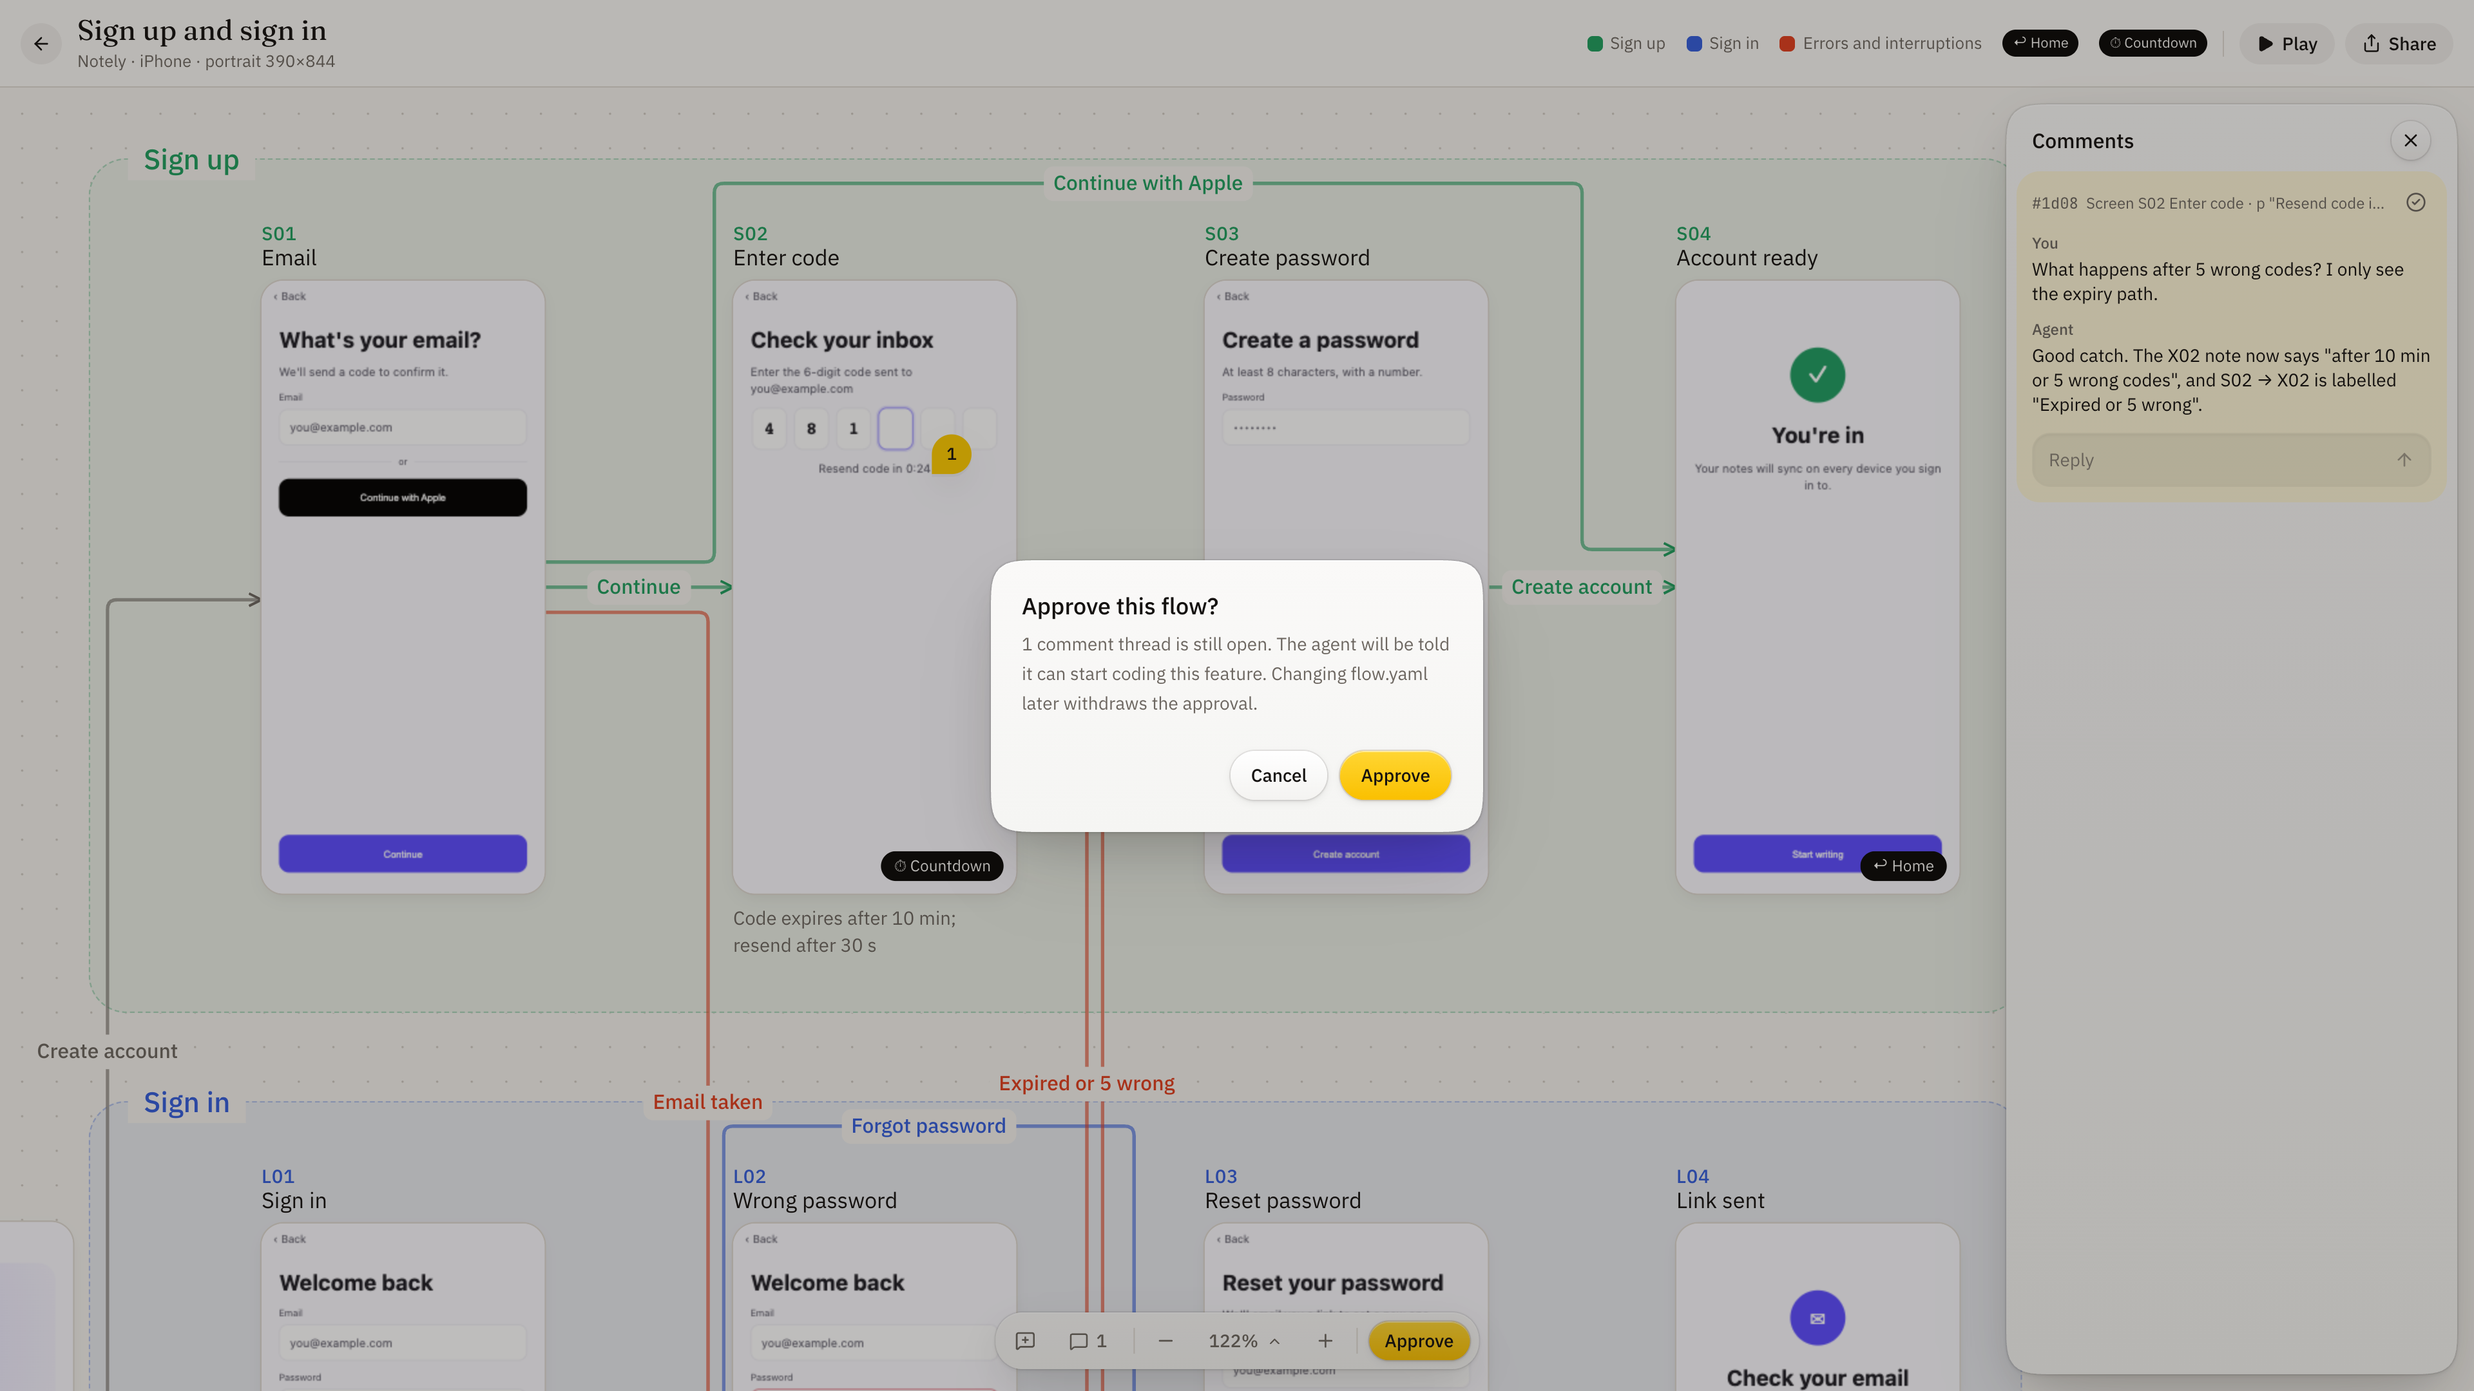
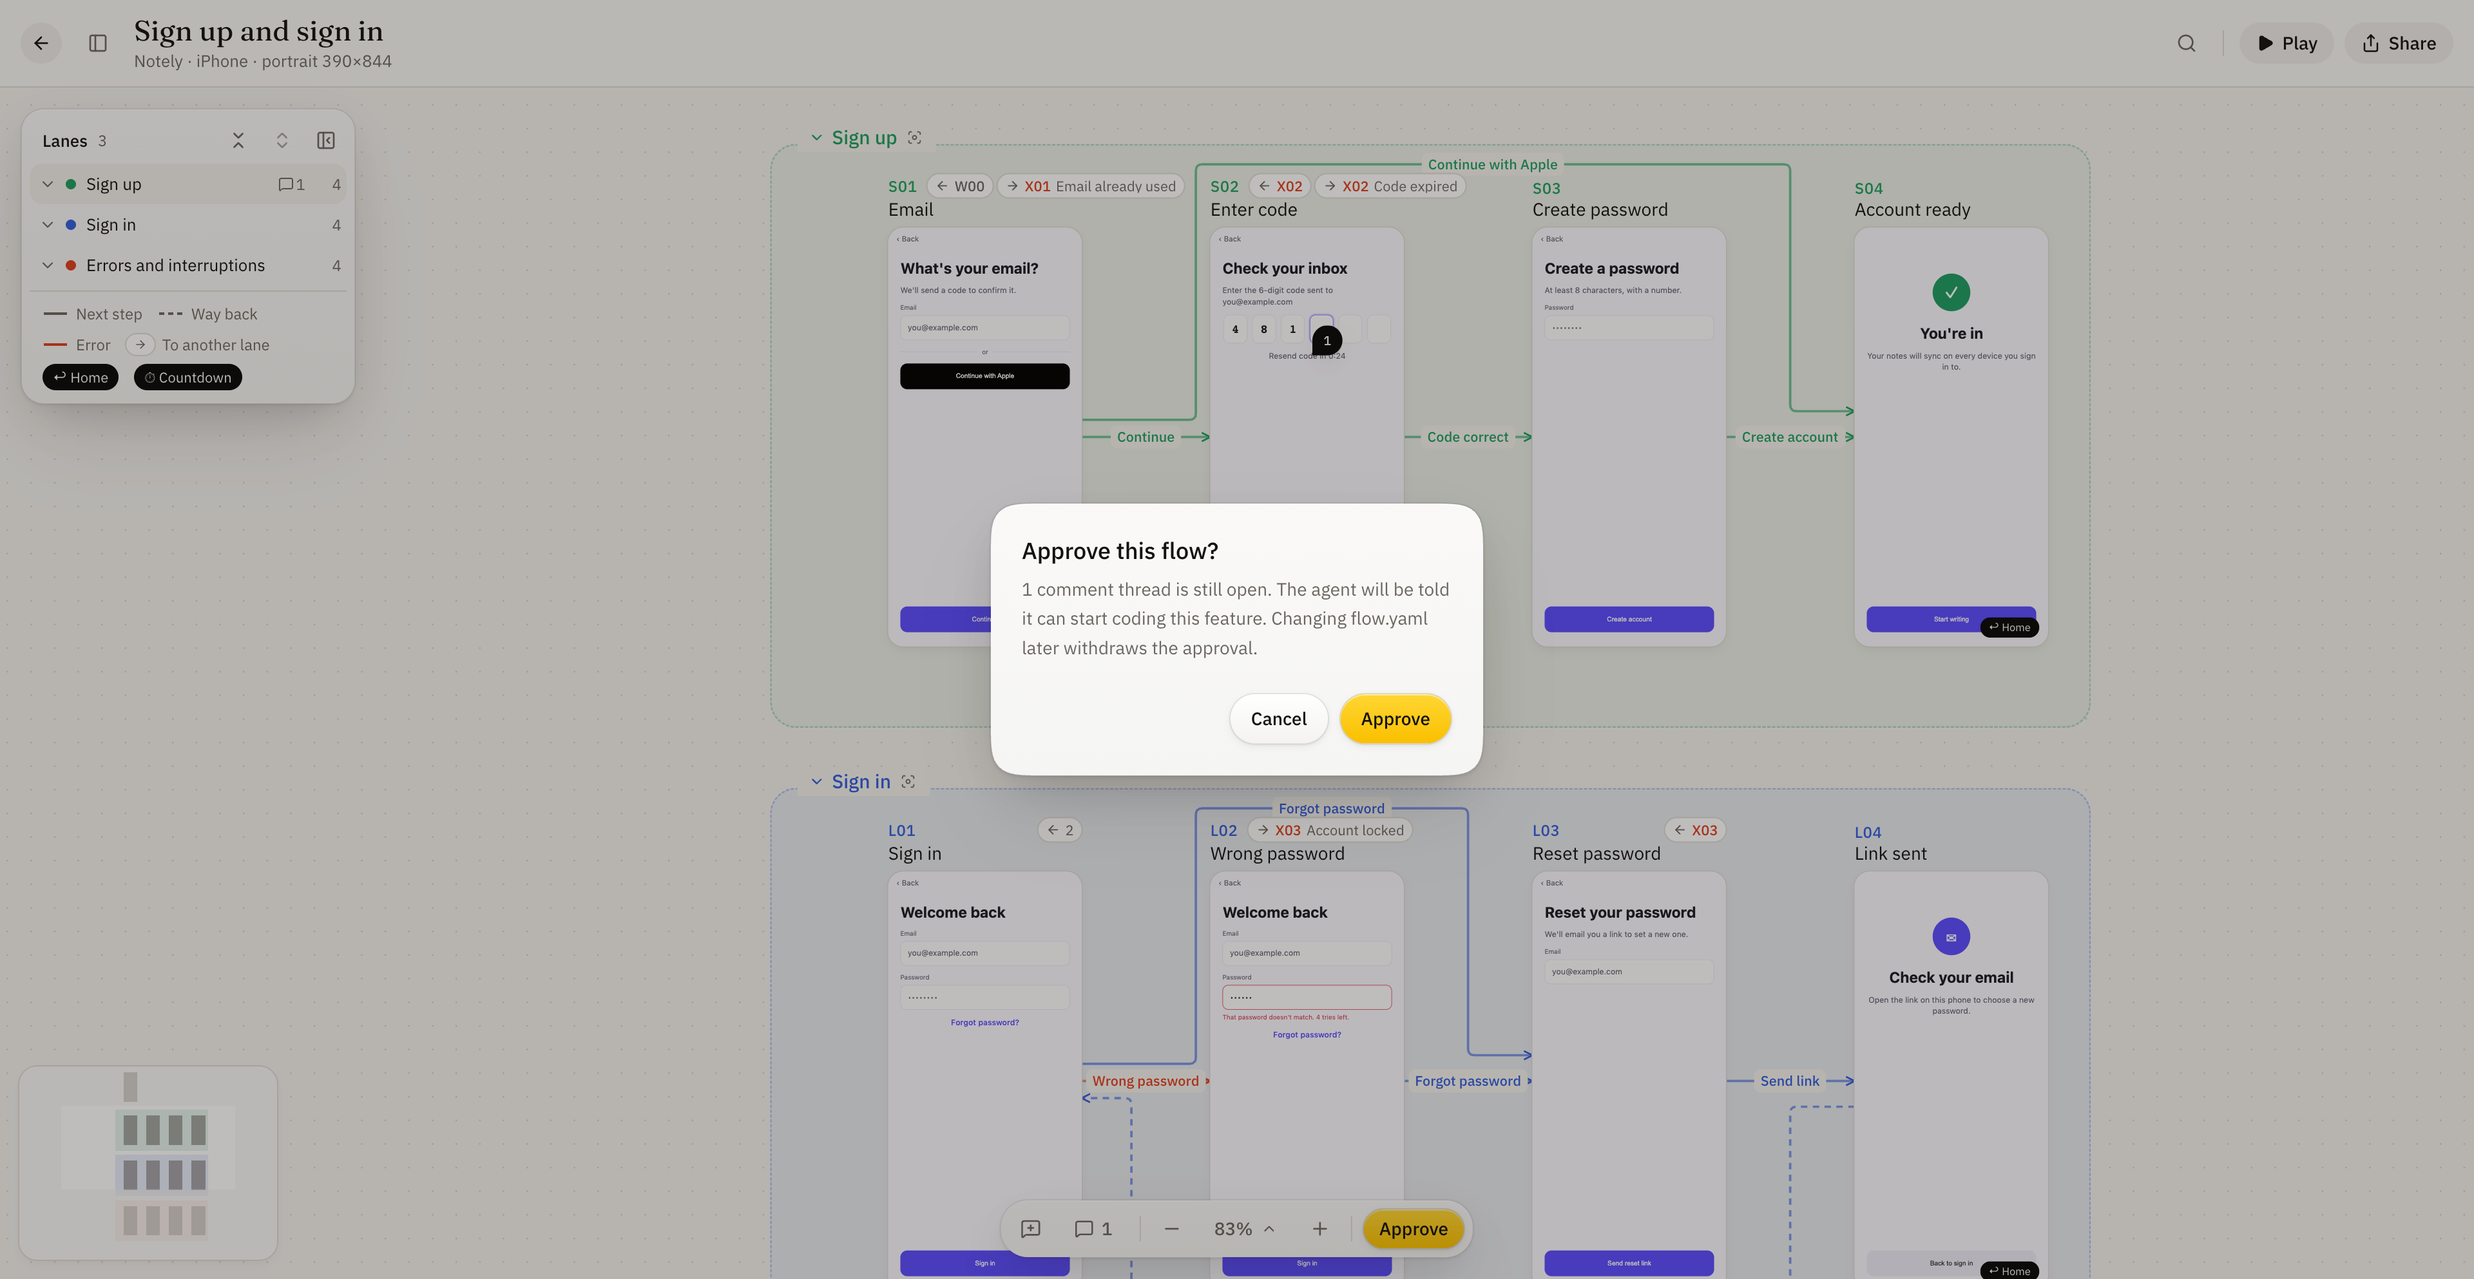
Present Design Flow as OneKey's fork of stvlynn/design-flow
- README: maintained by OneKey, a fork of stvlynn/design-flow by Steven Lynn, with an About this fork section listing what changed; install commands point at labrinyang/design-flow and say how to remove the original first
- Retake the screenshots for the current canvas (lanes panel, link chips, options in a reply, ink pins), and add one of a screen in focus
- Name Export PNG as the menu does, and quote the watch line as it prints now
- package.json and the plugin manifests name OneKey as author and this repository as home; package.json lists Steven Lynn as a contributor, and LICENSE keeps his copyright notice

diff --git a/README.md b/README.md
@@ -5,14 +5,12 @@
   Every screen, branch, error and way back, on one infinite canvas. You comment, the agent fixes it, you approve, then it codes.
 </p>
 
-<div align="center">
-<b>Join our Discord group! ⬇ 加入我们的 Discord 群组</b>
-
-[![Discord](https://spine.stv.pm/badge/discord.svg)](https://discord.gg/PwZDHH4mv3)
-</div>
+<p align="center">
+  Maintained by <a href="https://onekey.so">OneKey</a>. A fork of <a href="https://github.com/stvlynn/design-flow">stvlynn/design-flow</a> by Steven Lynn, reworked for large flows; <a href="#about-this-fork">About this fork</a> lists the changes.
+</p>
 
 <p align="center">
-  <img src="docs/images/canvas.png" alt="The Design Flow canvas for a sign-up and sign-in flow: three lanes (Sign up, Sign in, Errors and interruptions), thirteen phone-sized screens drawn in the app's own style, and labelled arrows between them" width="960" />
+  <img src="docs/images/canvas.png" alt="The Design Flow canvas for a sign-up and sign-in flow: the lanes panel on the left, and the Sign up and Sign in lanes of phone-sized screens drawn in the app's own style, with labelled arrows inside each lane and chips on the screen labels for links to other lanes" width="960" />
 </p>
 
 Ask an agent to build a sign-up flow and it starts writing components. The branches it forgot (email already taken, code expired, five wrong passwords, offline) turn up in review, after the code exists.
@@ -21,34 +19,34 @@ With Design Flow, the agent first writes the flow as `.design-flow/<feature>/flo
 
 ## Install
 
-You need Node.js 20 or newer. The skill ships with everything it runs — the CLI, the server and the canvas — so there is nothing else to install.
+You need Node.js 20 or newer. The skill ships with everything it runs (the CLI, the server and the canvas), so there is nothing else to install.
 
 Install it with the [skills CLI](https://github.com/vercel-labs/skills):
 
 ```bash
-npx skills add stvlynn/design-flow
+npx skills add labrinyang/design-flow
 ```
 
 The CLI asks which agents to install it for (Claude Code, Codex, Cursor and others) and whether to install it for this project or for your user. To skip the questions:
 
 ```bash
-npx skills add stvlynn/design-flow --skill design-flow --agent claude-code --yes
+npx skills add labrinyang/design-flow --skill design-flow --agent claude-code --yes
 ```
 
 Add `-g` to install it for every project:
 
 ```bash
-npx skills add stvlynn/design-flow --skill design-flow --agent claude-code -g --yes
+npx skills add labrinyang/design-flow --skill design-flow --agent claude-code -g --yes
 ```
 
-The skill lands in `.claude/skills/design-flow/` (or `~/.claude/skills/design-flow/` with `-g`).
+The skill lands in `.claude/skills/design-flow/` (or `~/.claude/skills/design-flow/` with `-g`). The original is named design-flow too: if you installed it from stvlynn/design-flow, remove it first with `npx skills remove design-flow`, and its plugin with `claude plugin marketplace remove design-flow`.
 
 ### Optional: the Claude Code plugin
 
 The skill works on its own: it tells the agent to run `design-flow watch` in the background, so your comments reach it while you work. If you use Claude Code and want comments attached to your next message even when no watcher is running, install the repository as a plugin as well:
 
 ```bash
-claude plugin marketplace add stvlynn/design-flow
+claude plugin marketplace add labrinyang/design-flow
 ```
 
 ```bash
@@ -80,7 +78,7 @@ The agent picks a feature name, runs `design-flow open sign-up`, and writes `.de
 ### 2. Read the canvas
 
 <p align="center">
-  <img src="docs/images/frames.png" alt="Close-up of the Sign in lane: Welcome, Sign in, Wrong password, Reset password and Link sent screens, each a real interface, connected by labelled arrows such as Forgot password and Send link" width="960" />
+  <img src="docs/images/frames.png" alt="The Sign in lane up close: Sign in, Wrong password, Reset password and Link sent, each a real interface, joined by labelled arrows, a red one for the wrong password, one that skips a screen running above and the way back running below; chips on the labels name the links to other lanes, such as X03 Account locked" width="960" />
 </p>
 
 - **Lanes** group the flow (sign up, sign in, errors). Each lane runs left to right from its own start, so no lane waits far to the right for the steps of another. An error lane marked "reachable from any step" holds interruptions that can happen anywhere. Screens in no lane sit in a row above the lanes.
@@ -89,13 +87,17 @@ The agent picks a feature name, runs `design-flow open sign-up`, and writes `.de
 - **Links** stand in for arrows between lanes: chips on a screen's label name the screens it leads to in other lanes (→ S07) and how many lead to it (← 3). Click one to go there. Hover a screen and all of its arrows show, those to other lanes too, while the rest of the flow fades; click the screen to keep them, and click the canvas or press Esc to let them go.
 - **Badges** mark screens that return home, animate or count down; **notes** sit below the flow.
 
+<p align="center">
+  <img src="docs/images/focus.png" alt="The pointer on L02 Wrong password: its arrows stay lit, with the red one down to X03 Account locked in the Errors lane labelled 5th wrong try, while the rest of the flow fades" width="960" />
+</p>
+
 Scroll to pan; ⌘-scroll, Ctrl-scroll or pinch to zoom, wherever the pointer is, from up to 800% out until the whole flow fits in the window, however big it is. ⌘+ and ⌘− zoom too (Ctrl on Windows and Linux), ⌘0 fits the whole flow in the window, and **Actual size** in the zoom menu shows screens at their real size. A flow too tall to read whole opens at the width of the window, from its top. While you comment, scrolling over a screen that is longer than its frame scrolls that screen first, then the canvas. Screens stay where the layout puts them, so scrolling and dragging anywhere moves the canvas.
 
 Far out, screens show as pictures, which the server draws in the background whenever a screen changes and keeps until it changes again. Close enough to read, at least about 160 × 100 px on screen, a screen becomes its live page, up to 16 at a time; while you comment, the screen under the pointer goes live too, so a click lands on an element in it. A flow with hundreds of screens opens in under a second and stays light however far you zoom.
 
 The lanes panel on the left lists every lane with how many screens and open comments it has, marks the lane in the middle of the window, and goes to a lane when you click its name. Below the list it says what the arrows, links and badges mean. Hide it with the button beside the flow's title. Click a lane's title, on the canvas or in the panel, to collapse it to one row that says how many screens it holds and how many open comments; the lanes below move up, and the arrows of a screen in focus that lead into the lane end on that row, with ×3 on one that stands for three. Click the row to open the lane again. **Collapse all lanes** and **Expand all lanes** are in the panel and the zoom menu, and the button after a lane's title collapses every other lane and shows that one. Your browser remembers which lanes you collapsed on each canvas, and a lane opens by itself when search, a link or a comment takes you inside it.
 
-Press ⌘K (Ctrl K) to find a screen by its id, name or lane and go straight to it. The minimap in the corner shows where you are in the flow; click or drag in it to move, or turn it off in the zoom menu. Zoomed out, screen ids and lane titles keep a readable size: lane titles until they would reach the next lane's, screen ids and titles until frames get too small to read, when they hide, as arrow labels do. The address bar follows you: it links the screen in the middle of the window (`#screen=S02`) or the comment you opened (`#thread=4a95ec3d`), so a copied link opens the canvas right there.
+Press ⌘K (Ctrl K) to find a screen by its id, name or lane and go straight to it. The minimap in the corner shows where you are in the flow; click or drag in it to move, or turn it off in the zoom menu. Zoomed out, screen ids and lane titles keep a readable size: lane titles until they would reach the next lane's, screen ids and titles until frames get too small to read, when they hide, as arrow labels do. The address bar follows you: it links the screen in the middle of the window (`#screen=S02`) or the comment you opened (`#thread=04b72f50`), so a copied link opens the canvas right there.
 
 Screens play their animations only while they are on screen and at least about 160 × 100 px there; smaller or hidden ones pause until you zoom in, so a large flow sits idle instead of keeping the CPU busy.
 
@@ -104,13 +106,13 @@ Screens play their animations only while they are on screen and at least about 1
 Press <kbd>C</kbd> and click: a button inside a screen, a screen's title, an arrow, a lane or empty canvas.
 
 <p align="center">
-  <img src="docs/images/comment.png" alt="A comment pinned to the resend line inside screen S02 Enter code. The comment panel shows the user asking what happens after five wrong codes, and the agent's reply saying the arrow to X02 now reads Expired or 5 wrong" width="960" />
+  <img src="docs/images/comment.png" alt="A comment pinned to the resend line inside screen S02 Enter code. In the comment panel the user asks what happens after five wrong codes; the agent answers that they now go to X02 Code expired, and offers that as the applied option next to locking sign-up for 15 minutes" width="960" />
 </p>
 
 The agent receives it where it is anchored:
 
 ```text
-[design-flow] sign-up · new comment #4a95ec3d on Screen S02 Enter code · p "Resend code in 0:24" ([data-id="resend"]): What happens after 5 wrong codes? I only see the expiry path.
+[design-flow] sign-up · new comment #04b72f50 on Screen S02 Enter code · p "Resend code in 0:24" ([data-id="resend"]): What happens after 5 wrong codes? I only see the expiry path. — run: design-flow comments sign-up --shots
 ```
 
 It changes `flow.yaml`, replies with `design-flow reply`, and resolves the thread when it is settled. Its reply appears under your comment; the canvas redraws as soon as the file changes. Until it answers, your last message says whether the agent has read it. A comment counts as read once a command the agent ran has shown it the text; a background watcher receiving it does not count, so a comment is never lost to a watcher nobody reads.
@@ -124,7 +126,7 @@ The agent can start a thread as well. When a screen it draws depends on somethin
 ### 4. Approve
 
 <p align="center">
-  <img src="docs/images/approve.png" alt="The Approve dialog: one comment thread is still open; the agent will be told it can start coding; changing flow.yaml later withdraws the approval" width="960" />
+  <img src="docs/images/approve.png" alt="The Approve dialog over the canvas: one comment thread is still open; the agent will be told it can start coding; changing flow.yaml later withdraws the approval" width="960" />
 </p>
 
 **Approve** records the exact version of `flow.yaml` you were looking at and tells the agent it may start coding. If the file changes afterwards, the approval is withdrawn and the canvas asks again. The agent does not code the feature until `design-flow status` says `approved`.
@@ -138,7 +140,7 @@ The agent can start a thread as well. When a screen it draws depends on somethin
 **Share** (top right) has three ways out:
 
 - **Export HTML**: one file with the clickable demo and a list of screens. It opens in any browser, offline.
-- **Export image**: the whole canvas as a PNG at 2×, with or without comment pins.
+- **Export PNG**: the whole canvas as a PNG at 2×, with or without comments, drawn as at 100% whatever the zoom on screen.
 - **Create share link**: uploads that HTML as a secret GitHub gist with your own `gh` login and copies a link that opens the demo (served by [githack](https://raw.githack.com), which shows a one-click "Open the page" notice first). Anyone with the link can see it. Needs the [GitHub CLI](https://cli.github.com) and `gh auth login`.
 
 <p align="center">
@@ -232,6 +234,18 @@ pnpm build       # tsc + vite, then bundles skills/design-flow/scripts/
 
 `src/` is the CLI, server and core; `web/` is the canvas (React, React Flow, ELK); `scripts/bundle-skill.mjs` builds the self-contained skill.
 
+## About this fork
+
+This repository is OneKey's fork of [stvlynn/design-flow](https://github.com/stvlynn/design-flow), the Design Flow written by [Steven Lynn](https://github.com/stvlynn) and published under the MIT license. The idea, the flow format, the canvas and the commands come from that project. We changed it to handle flows of a hundred screens and more, and so that every comment reaches the agent:
+
+- **Large flows**: far out, screens are pictures the server draws once; close up, only the screens in view are live pages; lines are routed off the main thread. A flow with hundreds of screens opens in under a second.
+- **Fewer lines**: arrows are drawn inside a lane; links to other lanes are chips on a screen's label, and hovering a screen draws all of its links. Each lane is laid out on its own, so the board is a column of lanes instead of one wide graph.
+- **Finding your way**: the lanes panel, lanes that collapse to one row, ⌘K search, a minimap, zooming out to the whole board, and links to a screen or a comment.
+- **Comments**: a comment counts as read only once the agent has seen it; the agent can answer with options, marking the one it recommends or has already applied, and can start a thread itself; pins follow their element when the screen changes.
+- **The agent sees its screens**: `shot`, `outline`, `check --visual` and `comments --shots` render screens in headless Chrome.
+- **Claude Code plugin**: a stop hook; comments reach the session working on a canvas kept in another folder; `watch` exits when stopped and no longer brings a stopped server back.
+- Screens can no longer be dragged; the layout places every screen.
+
 ## License
 
-MIT
+MIT, like the original. [LICENSE](LICENSE) keeps Steven Lynn's copyright notice, as the license requires.
